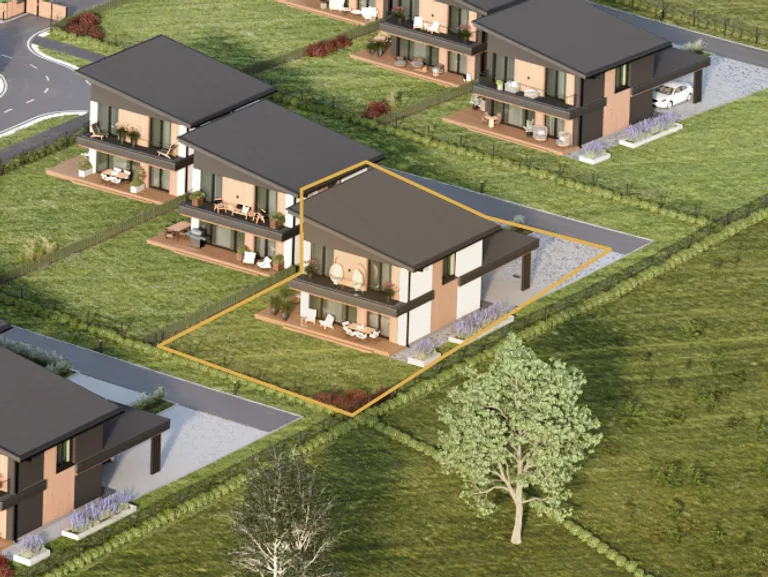
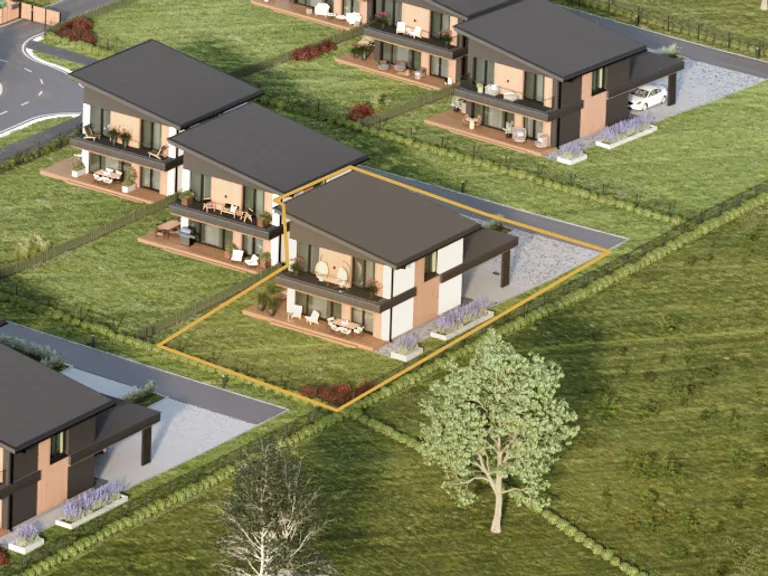
9-1 fix

diff --git a/resources/views/sections/magnoolia/interactive-masterplan.blade.php b/resources/views/sections/magnoolia/interactive-masterplan.blade.php
@@ -347,8 +347,9 @@
       ]))->values()->all();
       $boxMainKey = collect($views)->first()['key'] ?? 'secondary'; // current main view key
     @endphp
-    <div class="mg-mp__map-picker" style="margin-top:20px;">
-      <div class="mg-mp__map-picker-stage" id="mg-box-stage" style="position:relative;">
+    {{-- Wide breakout so the 3D render is as large as possible for precise tracing. --}}
+    <div class="mg-mp__map-picker" style="margin-top:20px;width:min(96vw,1700px);position:relative;left:50%;transform:translateX(-50%);">
+      <div class="mg-mp__map-picker-stage" id="mg-box-stage" style="position:relative;width:100%;">
         <img src="{{ $persSrc }}" @if($persSrcset) srcset="{{ $persSrcset }}" @endif alt="" decoding="async" style="width:100%;display:block;">
         <svg class="mg-mp__grid" viewBox="0 0 100 100" preserveAspectRatio="none" aria-hidden="true"
              style="position:absolute;inset:0;width:100%;height:100%;pointer-events:none;z-index:3;">
@@ -401,20 +402,21 @@
         var x = 0, y = 0; pts.forEach(function (p) { x += p[0]; y += p[1]; });
         return [ +(x / pts.length).toFixed(3), +(y / pts.length).toFixed(3) ];
       }
+      // vector-effect keeps strokes/dots crisp & thin regardless of the stretched viewBox
       function poly(pts, cls, fill) {
         return '<polygon points="' + pts.map(function (p) { return (p[0]*100) + ',' + (p[1]*100); }).join(' ') +
-               '" fill="' + fill + '" stroke="#ffd24a" stroke-width="0.3"/>';
+               '" fill="' + fill + '" stroke="#e0b052" stroke-width="1.2" vector-effect="non-scaling-stroke"/>';
       }
       function dots(pts, color) {
-        return pts.map(function (p) { return '<circle cx="' + (p[0]*100) + '" cy="' + (p[1]*100) + '" r="0.7" fill="' + color + '" stroke="#1d2430" stroke-width="0.15"/>'; }).join('');
+        return pts.map(function (p) { return '<circle cx="' + (p[0]*100) + '" cy="' + (p[1]*100) + '" r="0.22" fill="' + color + '" stroke="#1d2430" stroke-width="0.6" vector-effect="non-scaling-stroke"/>'; }).join('');
       }
       function redraw() {
         var html = '';
         Object.keys(boxes).forEach(function (k) {
           var pts = boxes[k];
-          html += poly(pts, 'saved', 'rgba(76,175,80,0.18)');
+          html += poly(pts, 'saved', 'rgba(76,175,80,0.16)');
           var c = centroid(pts);
-          html += '<text x="' + (c[0]*100) + '" y="' + (c[1]*100) + '" fill="#1d2430" font-size="2.2" text-anchor="middle" stroke="#fff" stroke-width="0.4" paint-order="stroke">' + k.replace('tee-', '') + '</text>';
+          html += '<text x="' + (c[0]*100) + '" y="' + (c[1]*100) + '" fill="#1d2430" font-size="1.3" text-anchor="middle" stroke="#fff" stroke-width="0.3" paint-order="stroke">' + k.replace('tee-', '') + '</text>';
         });
         if (cur.length) { html += (cur.length > 1 ? poly(cur, 'cur', 'rgba(200,148,67,0.28)') : '') + dots(cur, '#ffd24a'); }
         svg.innerHTML = html;

diff --git a/config/magnoolia_hotspots.php b/config/magnoolia_hotspots.php
@@ -105,7 +105,7 @@ return [
 
             'tee-9-1' => ['marker' => [0.757, 0.161], 'polygon' => [[0.705, 0.2], [0.755, 0.157], [0.755, 0.135], [0.752, 0.129], [0.771, 0.116], [0.795, 0.141], [0.776, 0.157], [0.775, 0.188], [0.732, 0.225]]],
             'tee-9-2' => ['marker' => [0.783, 0.192], 'polygon' => [[0.792, 0.145], [0.817, 0.166], [0.801, 0.185], [0.799, 0.219], [0.768, 0.255], [0.734, 0.223], [0.775, 0.187], [0.776, 0.157]]],
-            'tee-9-3' => ['marker' => [0.814, 0.218], 'polygon' => [[0.814, 0.173], [0.84, 0.197], [0.867, 0.211], [0.811, 0.283], [0.769, 0.253], [0.8, 0.221], [0.8, 0.185]]],
+            'tee-9-3' => ['marker' => [0.814, 0.215], 'polygon' => [[0.771, 0.255], [0.8, 0.219], [0.799, 0.192], [0.797, 0.19], [0.814, 0.175], [0.844, 0.196], [0.872, 0.213], [0.811, 0.284]]],
 
             'tee-11-1' => ['marker' => [0.795, 0.092], 'polygon' => [[0.759, 0.121], [0.747, 0.112], [0.793, 0.078], [0.799, 0.075], [0.799, 0.061], [0.816, 0.051], [0.839, 0.068], [0.817, 0.083], [0.817, 0.112], [0.79, 0.136], [0.77, 0.116]]],
             'tee-11-2' => ['marker' => [0.82, 0.118], 'polygon' => [[0.836, 0.072], [0.857, 0.098], [0.838, 0.108], [0.838, 0.139], [0.817, 0.156], [0.795, 0.142], [0.799, 0.135], [0.789, 0.132], [0.818, 0.113], [0.817, 0.082]]],